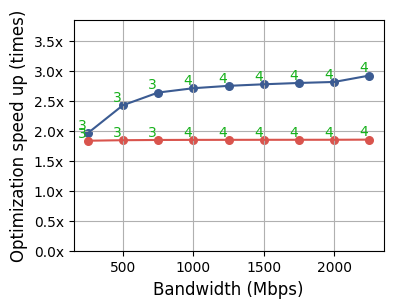
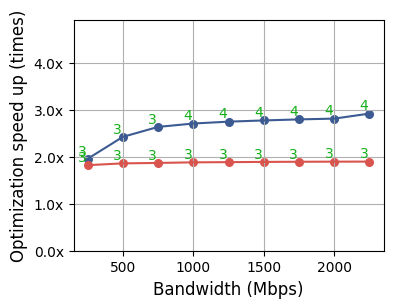
upload

Changed region(s): [[0.0916, 0.1169, 0.9771, 0.5552], [0.0916, 0.5844, 0.9771, 0.7597]]

diff --git a/PLT_latency/PYPLT_latency_swap.py b/PLT_latency/PYPLT_latency_swap.py
@@ -10,8 +10,8 @@ from opt_wrapper import OPT_WRAPPER, POWER_MODE
 from PLT_energy.PYPLT_energy import baseE
 
 # BANDWIDTH = "4GB"
-# READ_SPEED = 1280
-READ_SPEED = 190
+READ_SPEED = 1280
+# READ_SPEED = 190
 
 baseline = {
     "2GB": {
@@ -52,6 +52,8 @@ benchmarks = {
 }
 
 def draw(config):
+    print(f"2GB: {config} {baseline['2GB'][config] + benchmarks[config]}-{READ_SPEED}")
+    print(f"4GB: {config} {baseline['4GB'][config] + benchmarks[config]}-{READ_SPEED}")
 
     fig, ax1 = plt.subplots()
     fig.set_size_inches(4, 3)
@@ -67,7 +69,7 @@ def draw(config):
     plot_data_4GB = df_file_4GB['optimizer']
     for i in range(len(plot_data_2GB)):
         plot_data_2GB[i] = (baseline['2GB'][config] + benchmarks[config]) / (benchmarks[config] - plot_data_2GB[i] * 0.01 * benchmarks[config])
-        plot_data_4GB[i] = (baseline['4GB'][config] + benchmarks[config]) / (benchmarks[config] - plot_data_2GB[i] * 0.01 * benchmarks[config])
+        plot_data_4GB[i] = (baseline['4GB'][config] + benchmarks[config]) / (benchmarks[config] - plot_data_4GB[i] * 0.01 * benchmarks[config])
 
     line1 = ax1.plot(df_file_2GB['bandwidth'], plot_data_2GB,
                      color=sns.xkcd_rgb["denim blue"],
@@ -104,7 +106,7 @@ def draw(config):
     ax1.yaxis.set_major_formatter('{x:1.1f}x')
     # ax1.set_title(f"{config}", fontsize=14)
     # if min(plot_data) > 0:
-    ax1.set_ylim(ymin=0, ymax=(max(plot_data_2GB + 2)))
+    # ax1.set_ylim(ymin=0, ymax=(max(plot_data_2GB + 2)))
 
     # Set colors for y-axis tags
     ax1.yaxis.label.set_color('black')
@@ -129,15 +131,11 @@ def draw(config):
 
 if __name__ == "__main__":
     configs = [
-        # 'faster-agx',
-        'faster-nano',
-        # 'yolor-agx',
-        'yolor-nano',
-        # 'yolox-agx',
-        'yolox-nano',
-        # 'yolov4-agx',
-        'yolov4-nano'
-        #  'yolos-agx'
+        # 'faster-nano',
+        # 'yolor-nano',
+        # 'yolox-nano',
+        # 'yolov4-nano',
+         'yolos-agx'
     ]
 
     for config in tqdm(configs):
